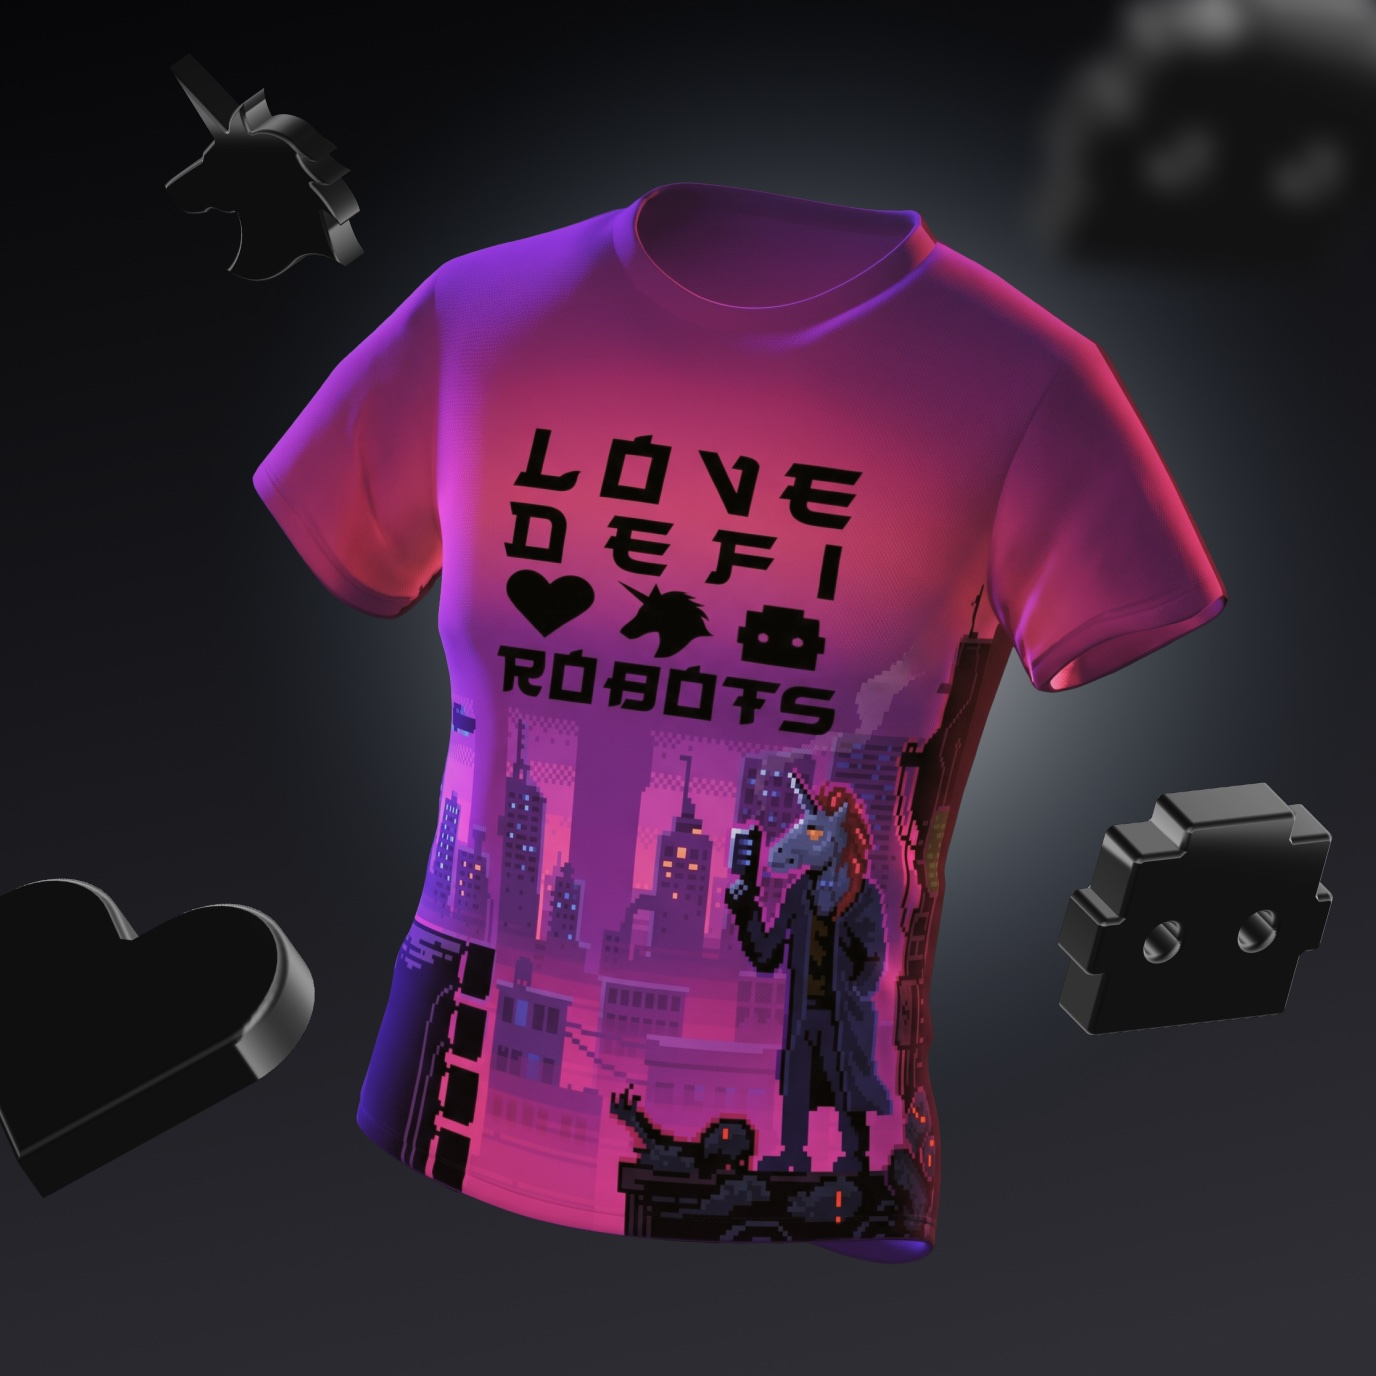
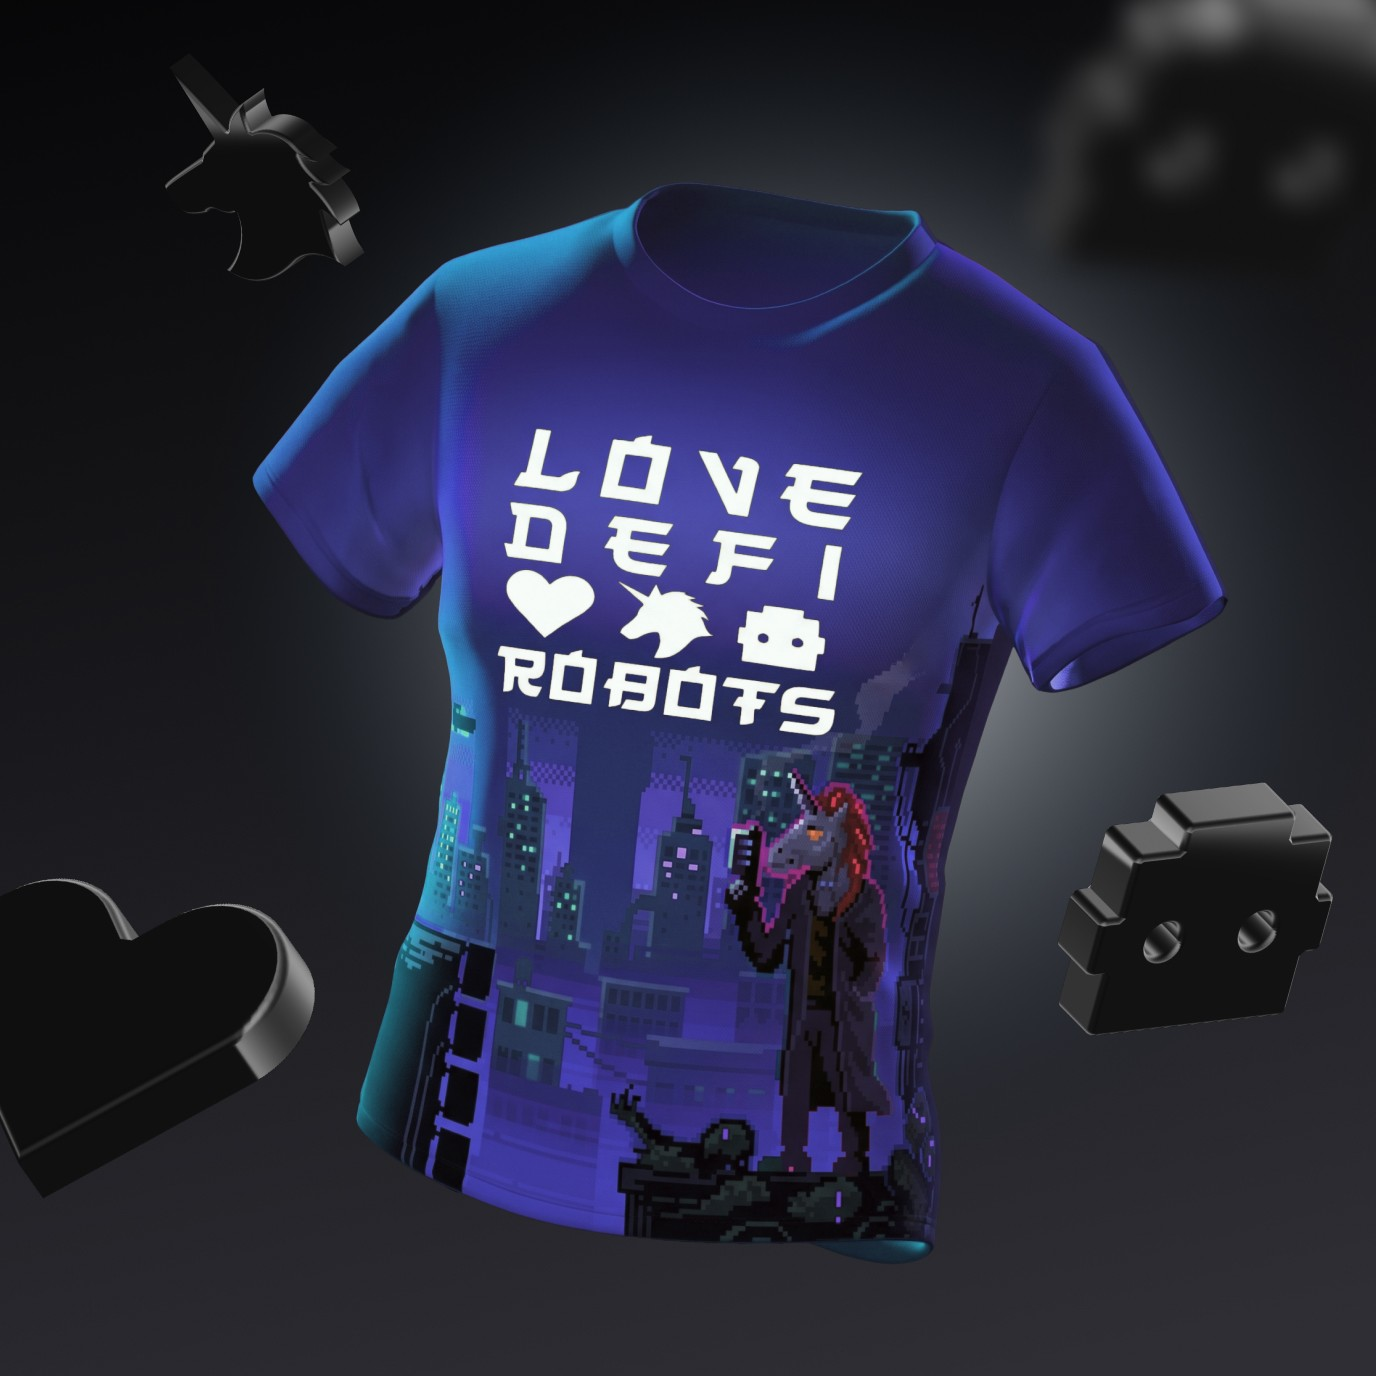
Picture fix

diff --git a/js/projects/gear-face.js b/js/projects/gear-face.js
@@ -11,6 +11,7 @@ PAGES["gear-face"] = {
     { row: [ { file: "01-garfield.jpg" }, { file: "02-back-to-the-future.jpg" } ] },
     { row: [ { text: "Designed around the OLED display: a true-black background keeps most pixels off to save battery, and a minimal layout keeps every reading legible at a glance. Steps, floors, charge, heart rate, date and even world time fit on a single face without overloading it." },
              { file: "05-oled-anim.svg", clock: { hour: "Union_8", minute: "Union_9", second: "Vector_34", center: [50.8, 136] } } ] },
-    { row: [ { file: "03-nixie.jpg" }, { file: "04-side.jpg" } ] }
+    { row: [ { file: "03-nixie.jpg" }, { file: "04-side.jpg" } ] },
+    { row: [ { file: "06-skeleton.jpg" }, { file: "07-flux-capacitor.jpg" } ] }
   ]
 };

diff --git a/js/projects/merch.js b/js/projects/merch.js
@@ -69,7 +69,7 @@ PAGES["merch"] = {
 
     ] } },
     { row: [ { file: "01-cap.jpg" },            { file: "02-bottle.jpg" } ] },
-    { row: [ { file: "03-tshirt-unicorn.jpg" }, { file: "04-hoodie.jpg" } ] },
+    { row: [ { file: "03-hoodie-blue.jpg" },    { file: "04-hoodie.jpg" } ] },
     { row: [ { file: "05-tshirt-model.jpg" },   { file: "06-tie-dye.jpg" } ] },
     { row: [ { cover: "toy" },
              { title: "Toys: Sir Inchalot", text: "The unicorn, reimagined as a plush collectible. Designed from sketch to 3D.", link: "toy" } ] },
